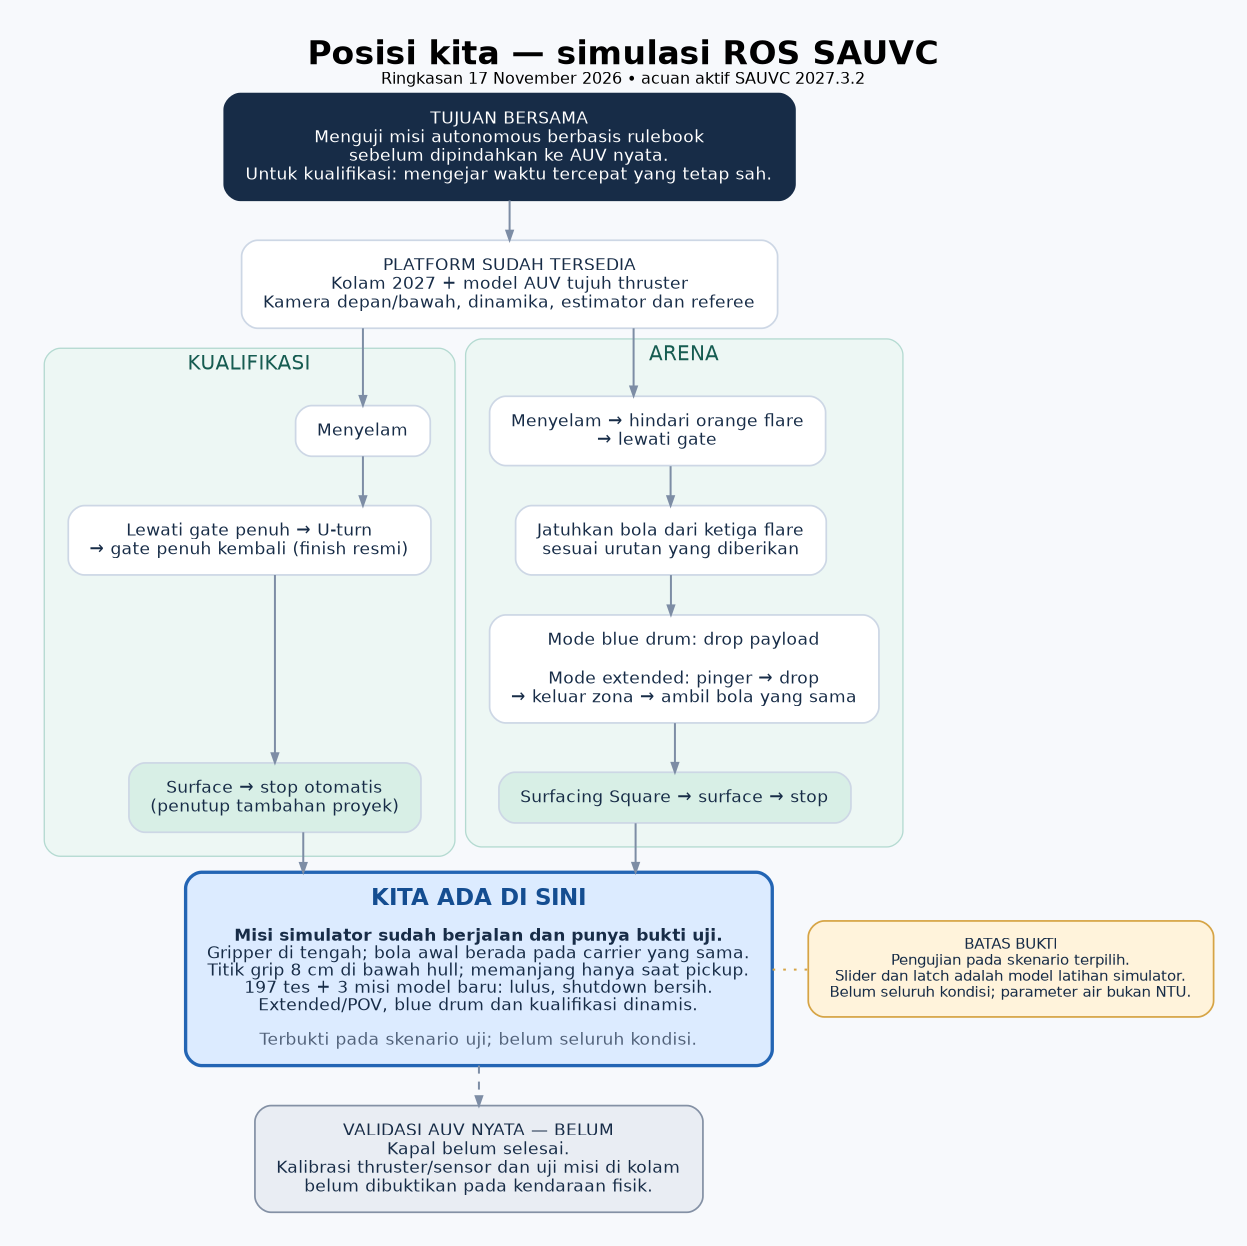
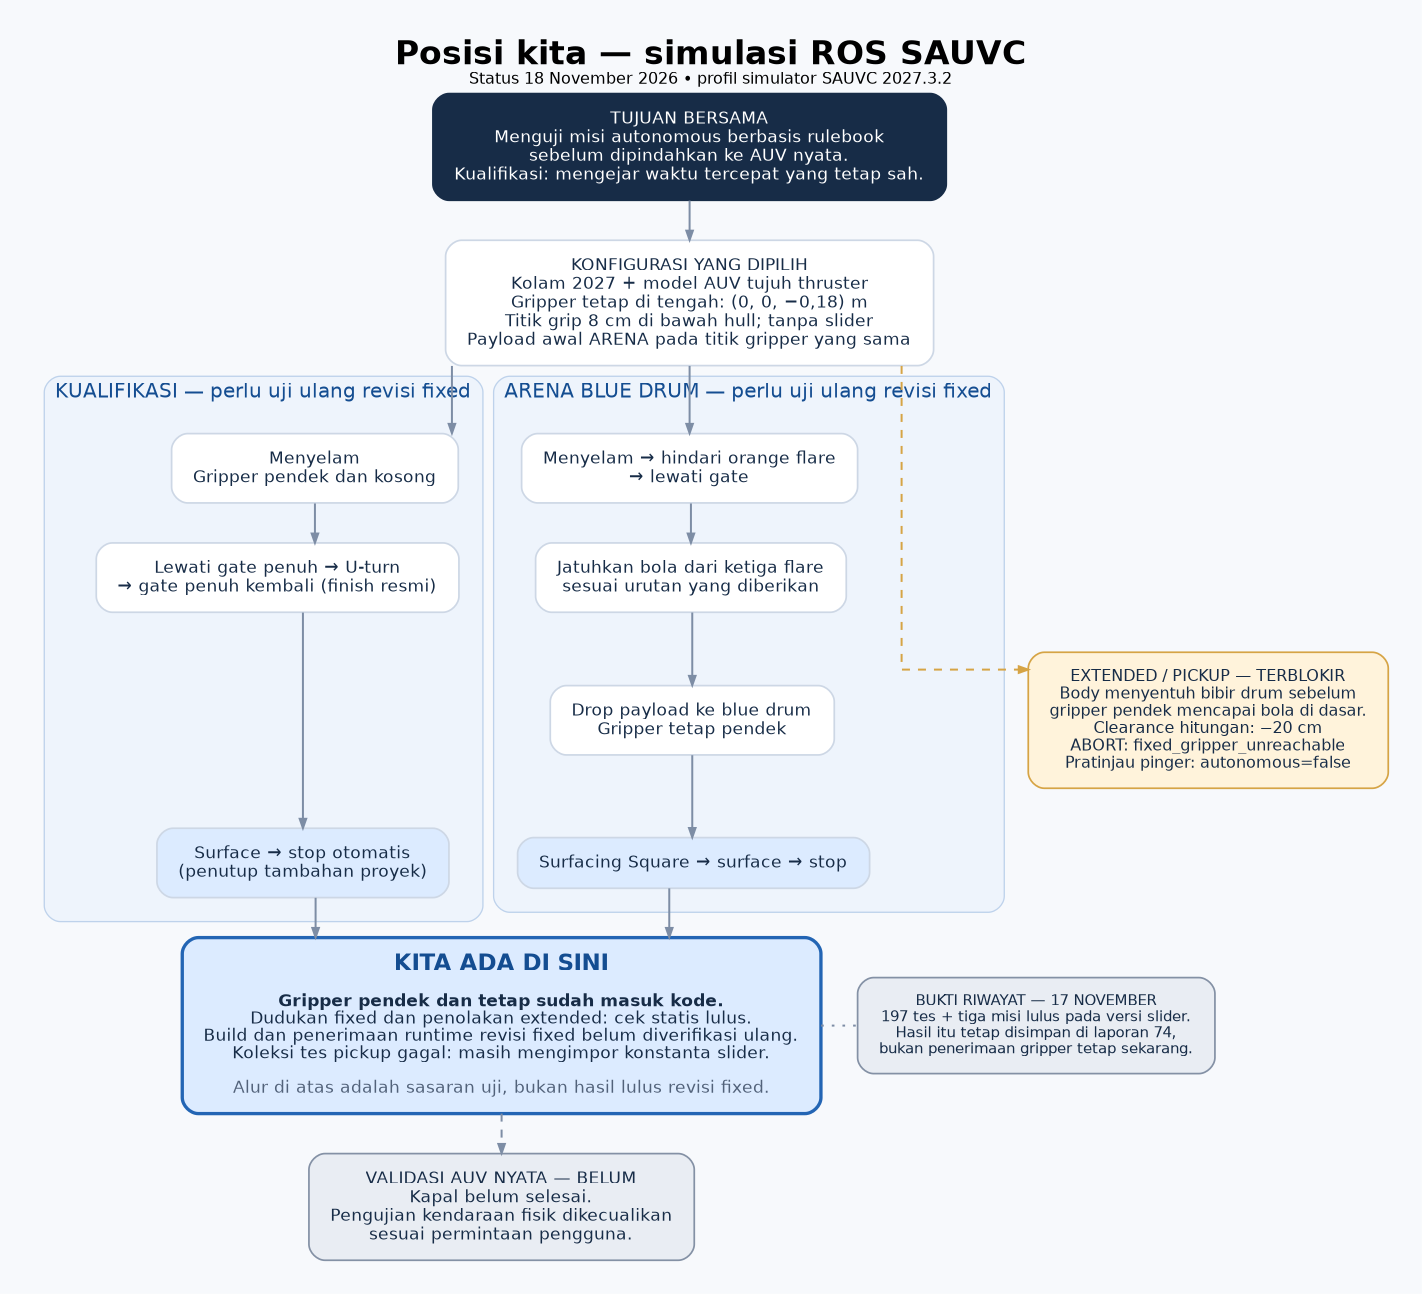
Update rulebook and documentation for November 2026 revisions
- Added details of the rulebook verification on November 18, 2026, confirming no changes since the last update.
- Included new JSON file for the November 18 rulebook check, detailing the comparison results and relevant rules.
- Updated CARA-RUNNING.md to reflect the latest configuration requirements for the fixed gripper and the status of verification for the 2027 qualification and ARENA.
- Clarified the implications of the fixed gripper on the extended/pickup mode and provided instructions for running simulations and tests.

Changed region(s): [[0.0305, 0.0305, 0.9751, 0.9759], [0.7009, 0.488, 0.9751, 0.61], [0.6399, 0.6404, 0.6704, 0.6709]]

diff --git a/ros2_ws/CARA-RUNNING.md b/ros2_ws/CARA-RUNNING.md
@@ -1,5 +1,17 @@
 # Cara menjalankan kualifikasi dan ARENA SAUVC 2027
 
+Diperbarui **18 November 2026**. Rulebook juga diperiksa ulang pada tanggal ini: profil aktif tetap SAUVC **2027.3.2**, diperbarui penyelenggara 30 Oktober; repo resmi identik dengan arsip. [Bukti pemeriksaan](../doc/sources/rulebook-check-20261118.json).
+
+**Konfigurasi yang diminta sekarang: gripper pendek dan tetap di tengah body, tanpa slider.** Titik grip `(0, 0, −0,18) m`, sekitar 8 cm di bawah hull; payload awal ARENA berada pada titik yang sama. Kamera bawah berada 16 cm di depan pusat body untuk menjaga pandangan.
+
+**Status verifikasi:** geometri fixed dan penolakan extended sudah diperiksa secara statis. Build dan penerimaan runtime revisi fixed belum diverifikasi ulang. Tes pickup masih mengimpor konstanta slider yang sudah dihapus (`PICKUP_STOW_Z`, `PICKUP_STROKE`), sehingga koleksi tes saat ini gagal. Angka **197 tes/tiga misi pada laporan 74 adalah hasil versi slider sebelumnya**, bukan hasil revisi fixed. [Status proyek](../STATUS.md) · [Riwayat versi slider](../plan/74-gripper-tengah-pendek-dan-bola-awal.md).
+
+| Mode | Pemakaian pada revisi fixed |
+|---|---|
+| Kualifikasi | Perintah uji tersedia di bawah; gripper tetap pendek dan kosong. Penerimaan perlu diulang. |
+| ARENA blue drum | Perintah uji tersedia di bawah; membawa dan drop payload. Penerimaan perlu diulang. |
+| ARENA extended/pickup | Belum didukung: controller menolak dengan `ABORT: fixed_gripper_unreachable`. |
+
 Gunakan **tiga terminal**: satu untuk simulator, satu untuk POV depan, dan satu untuk POV bawah. Pilih salah satu misi pada Terminal 1.
 
 **Tampilan atas arena** ada di jendela Gazebo; atur sudut pandangnya dengan mouse. Kamera AUV yang tersedia adalah **kamera depan dan bawah**, bukan kamera atas. Perintah POV di panduan ini menampilkan label deteksi.
@@ -13,7 +25,7 @@ cd /home/rasya/AUV/ros2_ws
 bash tools/ros.sh build --symlink-install
 ```
 
-Tidak perlu build ulang setiap kali menjalankan misi. Virtualenv HydroShips boleh tetap aktif; wrapper `tools/ros.sh` memilih Python ROS sendiri.
+**Build wajib setelah perubahan gripper fixed**, karena plugin C++ dan geometri berubah. Perbaikan fixture tes dan penerimaan ulang masih diperlukan sebelum revisi ini dinyatakan lulus. Tidak perlu build ulang setiap kali menjalankan misi pada source yang sama. Virtualenv HydroShips boleh tetap aktif; wrapper `tools/ros.sh` memilih Python ROS sendiri.
 
 ## 2. Terminal 1 — pilih misi
 
@@ -25,7 +37,7 @@ Alur: menyelam → melewati gate seluruh badan → U-turn → melewati gate kemb
 cd /home/rasya/AUV/ros2_ws
 export ROS_DOMAIN_ID=86
 export IGN_PARTITION=sauvc_practice
-bash tools/ros.sh launch sauvc_sim arena.launch.py edition:=2027 arena:=qualification autonomous:=true lane:=1
+bash tools/ros.sh launch sauvc_sim arena.launch.py edition:=2027 arena:=qualification autonomous:=true vehicle_model:=dynamic lane:=1
 ```
 
 Ganti `lane:=1` menjadi `lane:=2` atau `lane:=3` untuk jalur lainnya. Waktu kualifikasi resmi berakhir setelah pelintasan penuh kedua; surface–stop merupakan penutup tambahan proyek.
@@ -38,21 +50,25 @@ Alur: menyelam → menghindari orange flare → melewati gate → menjatuhkan bo
 cd /home/rasya/AUV/ros2_ws
 export ROS_DOMAIN_ID=86
 export IGN_PARTITION=sauvc_practice
-bash tools/ros.sh launch sauvc_sim arena.launch.py edition:=2027 arena:=finals autonomous:=true flare_order:=B-R-Y
+bash tools/ros.sh launch sauvc_sim arena.launch.py edition:=2027 arena:=finals autonomous:=true vehicle_model:=dynamic flare_order:=B-R-Y
 ```
 
 `B-R-Y` berarti biru → merah → kuning. Masukan urutan ini mewakili urutan yang diberikan penyelenggara simulasi sesudah Navigation.
 
-### ARENA tambahan — pinger dan pickup
+### ARENA extended/pickup — belum didukung gripper tetap
 
-Mode ini memilih red drum berpinger, keluar sepenuhnya dari target zone setelah drop, kemudian mengambil kembali bola yang sama dan mempertahankannya sampai surface di Square.
+Mode extended mencakup red drum berpinger, drop payload, keluar target zone, lalu mengambil bola yang sama dari dasar drum. Dengan gripper tetap pendek, body menyentuh bibir drum sebelum alat mencapai bola; clearance hitungan pada target pickup adalah **−20 cm**. Ini batas geometri model sekarang, bukan larangan rulebook.
+
+`autonomous:=true extended:=true` saat ini menghasilkan `ABORT: fixed_gripper_unreachable` sebelum misi bergerak. Jangan menganggapnya sebagai misi lengkap yang lulus. Untuk **melihat properti arena/pinger tanpa menjalankan misi**, gunakan:
 
 ```bash
 cd /home/rasya/AUV/ros2_ws
 export ROS_DOMAIN_ID=86
 export IGN_PARTITION=sauvc_practice
-bash tools/ros.sh launch sauvc_sim arena.launch.py edition:=2027 arena:=finals autonomous:=true extended:=true flare_order:=B-R-Y
+bash tools/ros.sh launch sauvc_sim arena.launch.py edition:=2027 arena:=finals autonomous:=false extended:=true vehicle_model:=dynamic
 ```
+
+Kedua POV tetap dapat dibuka dengan Terminal 2/3. Mode ini hanya pratinjau; kendaraan tidak menjalankan pickup.
 
 ## 3. Terminal 2 — POV kamera depan
 
@@ -110,6 +126,10 @@ bash tools/ros.sh topic info /sauvc/perception/front/image_annotated
 bash tools/ros.sh topic info /sauvc/perception/bottom/image_annotated
 ```
 
+### ABORT: fixed_gripper_unreachable
+
+Pesan ini menandai mode extended/pickup yang belum didukung geometri gripper tetap pendek. Pilih ARENA blue drum tanpa `extended:=true`, atau gunakan `autonomous:=false` untuk pratinjau. Mengulang launch extended dengan konfigurasi sama tidak memperbaiki batas jangkauan ini.
+
 ### Misi abort karena stale_front / stale_bottom
 
 Pesan ini berarti hasil kamera valid dengan timestamp baru tidak diterima selama batas pengaman. Jangan melanjutkan run yang sudah `ABORT`; hentikan launch, pastikan hanya satu simulator berjalan, lalu ulangi. Catat pesan tambahan tentang jeda frame dan timestamp jika terulang.
@@ -121,28 +141,41 @@ Panduan ini untuk simulator. Kualifikasi dan ARENA autonomous visual memakai mod
 
 ## 7. Verifikasi otomatis dengan Gazebo dan kedua POV
 
-Perintah ini menjalankan misi penuh, menyimpan bukti, lalu menutup simulator dan viewer setelah pengujian. Pilih folder output baru agar bukti sebelumnya tetap tersimpan. Hentikan launch lain pada domain/partition yang sama dahulu.
+Perintah berikut adalah **cara menjalankan pemeriksa**, bukan klaim bahwa revisi fixed sudah lulus. Penguji menyimpan bukti dan menutup simulator/viewer. Gunakan folder output baru dan hentikan launch lain pada domain/partition yang sama dahulu. `--pov` memerlukan `--gui`.
+
+Kualifikasi dengan Gazebo dan kedua POV:
 
 ```bash
 cd /home/rasya/AUV/ros2_ws
 export ROS_DOMAIN_ID=222
 export IGN_PARTITION=sauvc_gui_verification
-bash tools/ros.sh python tools/check_arena.py --vehicle-model dynamic --gui --pov --output evidence/gui-verification/blue.json
+bash tools/ros.sh python tools/check_qualification.py --edition 2027 --vehicle-model dynamic --gui --pov --lane 1 --output evidence/gui-fixed-qualification-01/check.json
 ```
 
-Untuk pinger/pickup, tambahkan `--extended --scene-variant 1 --blue-drum 3 --pinger-drum 4 --order Y-B-R` dan gunakan output berbeda. `--pov` memerlukan `--gui`; viewer yang keluar selama run menggagalkan verifikasi tampilan.
+ARENA blue drum dengan Gazebo dan kedua POV, **jalankan sesudah pengujian kualifikasi selesai**:
+
+```bash
+cd /home/rasya/AUV/ros2_ws
+export ROS_DOMAIN_ID=222
+export IGN_PARTITION=sauvc_gui_verification
+bash tools/ros.sh python tools/check_arena.py --edition 2027 --vehicle-model dynamic --gui --pov --output evidence/gui-fixed-blue-01/check.json
+```
+
+Viewer yang keluar selama run menggagalkan verifikasi tampilan. Jangan tambahkan `--extended` untuk penerimaan misi lengkap pada gripper fixed; kasus itu berhenti dengan `fixed_gripper_unreachable`.
 
 Model dinamis kini memakai penahan fisik virtual saat preflight. Kalibrasi bias DVL horizontal memerlukan sinyal `deployment_held=true`; penahan dilepas pada thrust pertama dan tidak dipasang kembali saat stop. Setelah DIVE, perintah gerak atau pelepasan penahan, estimasi bias dibekukan. Sampel tidak cukup berarti koreksi tidak diterapkan. Ini memodelkan kendaraan yang benar-benar ditahan saat penempatan, bukan kalibrasi saat bebas hanyut. Perintah launch tetap sama. Rincian: [laporan 31](../plan/31-kalibrasi-dvl-dalam-arus.md). Prosedur serta konfirmasi penahan belum divalidasi pada AUV fisik.
 
 ## 8. Pengujian keandalan berulang tanpa jendela
 
-Matriks terdiri dari 12 kualifikasi dan enam ARENA, dengan variasi seed sensor, prior posisi, pencahayaan dan arus. Runner menjalankan kasus satu per satu pada domain 230/partition `sauvc_reliability_matrix`. Hentikan simulator lain yang memakai pasangan tersebut; jangan mengubah source selama batch.
+Matriks historis terdiri dari 12 kualifikasi dan enam ARENA, dengan variasi seed sensor, prior posisi, pencahayaan dan arus. Runner menjalankan kasus satu per satu pada domain 230/partition `sauvc_reliability_matrix`. Hentikan simulator lain yang memakai pasangan tersebut; jangan mengubah source selama batch.
 
 ```bash
 cd /home/rasya/AUV/ros2_ws
 bash tools/ros.sh build --symlink-install
 bash tools/ros.sh python tools/check_reliability.py --output evidence/reliability-run-01
 ```
+
+**Matriks penuh mencakup kasus `a-pinger-91` yang tidak didukung gripper fixed.** Karena itu, hasil seluruh matriks tidak dapat dinyatakan lulus pada konfigurasi ini. Untuk uji terpilih, tambahkan `--suite qualification` atau `--case a-nominal-7`.
 
 Folder output wajib baru. `summary.json` menyimpan seluruh hasil, termasuk kegagalan; exit code 1 berarti ada kasus yang tidak diterima. Gunakan `--suite qualification`, `--suite arena`, atau `--case q-prior-91` untuk membatasi pengujian. Ctrl+C menghentikan harness aktif dan mencatat kasus terputus. Hasil dan batas pembuktian ada pada [laporan 30](../plan/30-pengujian-keandalan-berulang.md).
 
@@ -247,4 +280,4 @@ bash tools/ros.sh launch sauvc_sim arena.launch.py edition:=2027 arena:=finals a
 
 Topic POV annotated depan/bawah tetap sama. Efek hanya pada gambar kamera; overview arena mempertahankan visual kolam. Nilai latihan `water_attenuation=0.025` per meter bukan hasil kalibrasi air SAUVC. Nilai 0 menonaktifkan RGBD/filter dan memakai jalur kamera baseline. Resolusi, update rate dan batas freshness tetap. Model ini belum mencakup refraksi, partikel, gelombang fisik atau pemisahan medium udara–air. [Implementasi, preview dan bukti — laporan 67](../plan/67-optik-air-kamera-berdasarkan-depth.md).
 
-Batas pengujian terbaru: profil ringan 0,025/m dan dua fixture ARENA 0,05/m lulus setelah perbaikan halo biru; kualifikasi 0,05/m lulus pada kasus terpilih. Kualifikasi 0,10/m kini lulus pada tiga jalur terpilih setelah fallback median warna ([laporan 70](../plan/70-kualifikasi-optik-010-dan-median-warna.md)). Default/profil ringan tidak dinaikkan otomatis. Jangan menyamakan rentang parameter yang diterima parser dengan rentang keberhasilan seluruh misi. [Laporan 69](../plan/69-rulebook-dan-perbaikan-halo-biru-arena.md); riwayat batas sebelumnya pada [laporan 68](../plan/68-ketahanan-optik-air-dan-depth-loss.md).
+Bukti optik sebelum revisi gripper fixed: profil ringan 0,025/m dan dua fixture ARENA 0,05/m lulus setelah perbaikan halo biru; kualifikasi 0,05/m lulus pada kasus terpilih. Kualifikasi 0,10/m kini lulus pada tiga jalur terpilih setelah fallback median warna ([laporan 70](../plan/70-kualifikasi-optik-010-dan-median-warna.md)). Default/profil ringan tidak dinaikkan otomatis. Jangan menyamakan rentang parameter yang diterima parser dengan rentang keberhasilan seluruh misi. [Laporan 69](../plan/69-rulebook-dan-perbaikan-halo-biru-arena.md); riwayat batas sebelumnya pada [laporan 68](../plan/68-ketahanan-optik-air-dan-depth-loss.md).

diff --git a/doc/sources/rulebook-2027.3.2/README.md b/doc/sources/rulebook-2027.3.2/README.md
@@ -31,3 +31,11 @@ Versi publik tetap **2027.3.2**, diperbarui 30 Oktober. GitHub compare terhadap 
 ## Pemeriksaan ulang 16 November 2026
 
 Halaman resmi masih 2027.3.2 (30 Oktober); GitHub compare `master` terhadap commit arsip identik, nol commit/file berubah. Tidak diperlukan migrasi simulator. [Bukti pemeriksaan](../rulebook-check-20261116.json). Kanal privat panitia tidak diperiksa.
+
+## Pemeriksaan ulang 18 November 2026
+
+Halaman publik masih **2027.3.2**, diperbarui **30 Oktober 2026**. Perbandingan `master` dengan commit arsip tetap `identical`, nol commit dan nol file berubah, termasuk aset dalam repo. [Bukti pemeriksaan](../rulebook-check-20261118.json). Tidak diperlukan migrasi rulebook baru; ini tidak menyatakan revisi gripper fixed sudah lulus penerimaan simulator.
+
+Aturan reacquisition tetap mensyaratkan seluruh bagian AUV keluar target zone sebelum kembali mengambil bola yang sama, lalu mempertahankannya sampai akhir attempt. Bagian tersebut tidak menentukan gripper harus memanjang. Drum berdiameter 60 cm dan kedalaman 30 cm; bola tim berdiameter 3,5–4,5 cm dengan massa maksimal 200 g. Kontak aktuator pada bagian dalam drum saat deploy/retrieve tidak dipenalti; kontak bagian luar drum atau body kendaraan dapat terkena penalti yang sama dengan menyentuh dasar kolam. [Aturan resmi, bagian 9.2, 9.3 dan 9.9](https://sauvc.org/rulebook/).
+
+Cakupan pemeriksaan hanya halaman publik dan source repo resmi; pengumuman privat panitia tidak diperiksa.

diff --git a/doc/sources/README.md b/doc/sources/README.md
@@ -1,5 +1,7 @@
 # Arsip sumber dari pengguna
 
+**Pemeriksaan ulang 18 November 2026:** rulebook resmi tetap **2027.3.2**, diperbarui **30 Oktober 2026**. `master` repo resmi identik dengan commit arsip `b7194b4`: nol commit/file berubah. Tidak ada migrasi aturan baru yang diperlukan. [Bukti pemeriksaan](rulebook-check-20261118.json). Tipe gripper tidak ditentukan pada aturan reacquisition; keterbatasan jangkauan gripper fixed adalah persoalan geometri simulator, bukan perubahan aturan.
+
 **Pemeriksaan ulang 16 November 2026:** rulebook resmi tetap **2027.3.2**, diperbarui 30 Oktober. Repo master resmi identik dengan commit arsip: nol commit/file berubah. Tidak perlu migrasi aturan simulator. [Bukti pemeriksaan](rulebook-check-20261116.json).
 
 **Pemeriksaan ulang 14 November 2026:** halaman resmi tetap **2027.3.2** (30 Oktober). `master` repo resmi identik dengan commit arsip, nol commit/file berubah; tidak diperlukan migrasi aturan simulator. [Bukti](rulebook-check-20261114.json).
